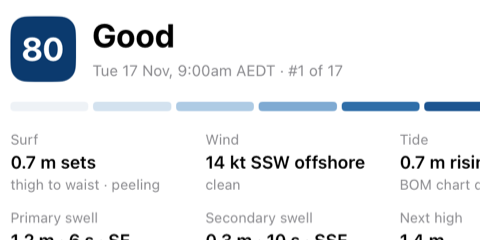
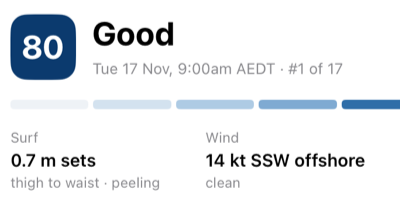
Feature cards: readable Compare and Understand crops, a rated surf for Look back, the Watch for Record

diff --git a/layouts/home.html b/layouts/home.html
@@ -33,8 +33,8 @@
     <article class="card shot-card"><div class="snip">{{ partial "snippet.html" (dict "name" "understand" "width" 380 "alt" "Mullaway scored 80, good: 0.7 m sets peeling, 14 knot south-south-westerly offshore, 0.7 m rising tide.") }}</div><div class="shot-text"><p class="kicker">Understand</p><h3>Every score has its reasons.</h3><p>Swell, wind and tide, added up for you.</p></div></article>
     <article class="card shot-card"><div class="snip">{{ partial "snippet.html" (dict "name" "plan" "width" 380 "alt" "Week board: a row per break and a cell per session, darker where the score is higher.") }}</div><div class="shot-text"><p class="kicker">Plan</p><h3>Find a window in the week.</h3><p>Every break, every session, seven days.</p></div></article>
     <article class="card shot-card"><div class="snip">{{ partial "snippet.html" (dict "name" "explore" "width" 380 "alt" "Break map at Mullaway: a left of about 40 m and rights of about 50 and 90 m, with a closing-out stretch between.") }}</div><div class="shot-text"><p class="kicker">Explore</p><h3>Put the forecast on the coast.</h3><p>Where along the beach the waves should break.</p><a class="more" href="{{ "/where-it-breaks/" | relURL }}">Where it breaks <span aria-hidden="true">→</span></a></div></article>
-    <article class="card shot-card"><div class="snip">{{ partial "snippet.html" (dict "name" "record" "width" 380 "alt" "Four rides drawn as arrows on a satellite view of Emerald Beach.") }}</div><div class="shot-text"><p class="kicker">Record</p><h3>Log your surfs from your wrist.</h3><p>Every ride mapped from your Apple Watch.</p><a class="more" href="{{ "/surfs/" | relURL }}">Surf tracking <span aria-hidden="true">→</span></a></div></article>
-    <article class="card shot-card"><div class="snip">{{ partial "snippet.html" (dict "name" "lookback" "width" 380 "alt" "Scoreboard for the month: 22 rides in 6 surfs, 22 more than October.") }}</div><div class="shot-text"><p class="kicker">Look back</p><h3>See what the forecast said.</h3><p>Rides, surfs and time in the water, month by month.</p><a class="more" href="{{ "/surfs/#scoreboard" | relURL }}">The Scoreboard <span aria-hidden="true">→</span></a></div></article>
+    <article class="card shot-card"><div class="snip inset bare">{{ partial "snippet.html" (dict "name" "record" "width" 380 "alt" "Apple Watch during a surf at Emerald Beach: 17 minutes 35 in the water, and the last wave was 76 metres long.") }}</div><div class="shot-text"><p class="kicker">Record</p><h3>Log your surfs from your wrist.</h3><p>Start on Apple Watch. Every ride is mapped and timed.</p><a class="more" href="{{ "/surfs/" | relURL }}">Surf tracking <span aria-hidden="true">→</span></a></div></article>
+    <article class="card shot-card"><div class="snip inset">{{ partial "snippet.html" (dict "name" "lookback" "width" 380 "alt" "A surf at Emerald Beach rated 3 out of 5: four rides drawn on the satellite view, longest 81 metres, top speed 21.2 km/h.") }}</div><div class="shot-text"><p class="kicker">Look back</p><h3>See what the forecast said.</h3><p>Rate each surf, then check it against the forecast.</p><a class="more" href="{{ "/surfs/#scoreboard" | relURL }}">The Scoreboard <span aria-hidden="true">→</span></a></div></article>
     <article class="card shot-card card-wide"><div class="snip">{{ partial "snippet.html" (dict "name" "widgets" "width" 560 "alt" "Best Now widget: Laggers Point at 90 out of 100, good, 0.6 m, then Woolgoolga and Wategos for the next hours.") }}</div><div class="shot-text"><p class="kicker">Glance</p><h3>The forecast without opening the app.</h3><p>Home Screen and Lock Screen widgets: the best break now, the best sessions left today, and Sea &amp; Wind.</p></div></article>
   </div>
 </section>

diff --git a/assets/css/main.css b/assets/css/main.css
@@ -87,6 +87,9 @@ nav a{display:inline-flex;align-items:center;min-height:44px;color:inherit;text-
 .shot-card{padding:0;overflow:hidden;display:flex;flex-direction:column}
 .shot-card .snip{aspect-ratio:2/1;overflow:hidden;background:var(--foam);border-bottom:1px solid var(--line)}
 .shot-card .snippet{display:block;width:100%;height:100%;object-fit:cover}
+.shot-card .snip.inset{display:flex;align-items:center;justify-content:center;padding:14px 18px}
+.shot-card .snip.inset .snippet{width:auto;height:100%;max-width:100%;object-fit:contain;border-radius:12px;box-shadow:0 1px 0 var(--line),0 10px 24px -14px #021b2f66}
+.shot-card .snip.bare .snippet{border-radius:0;box-shadow:none}
 .shot-card .shot-text{padding:20px 24px 22px}
 .shot-card h3{margin-bottom:.35rem}
 .shot-card p:last-of-type{margin-bottom:.6rem}
